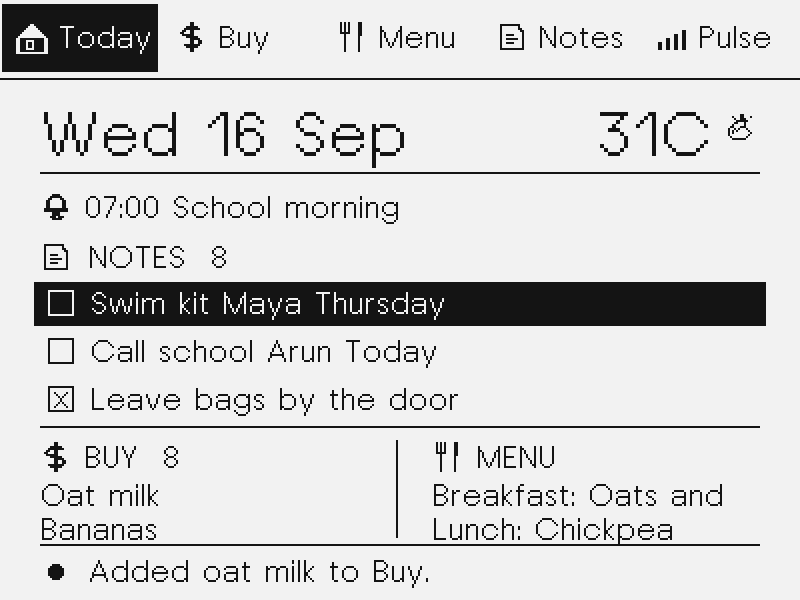
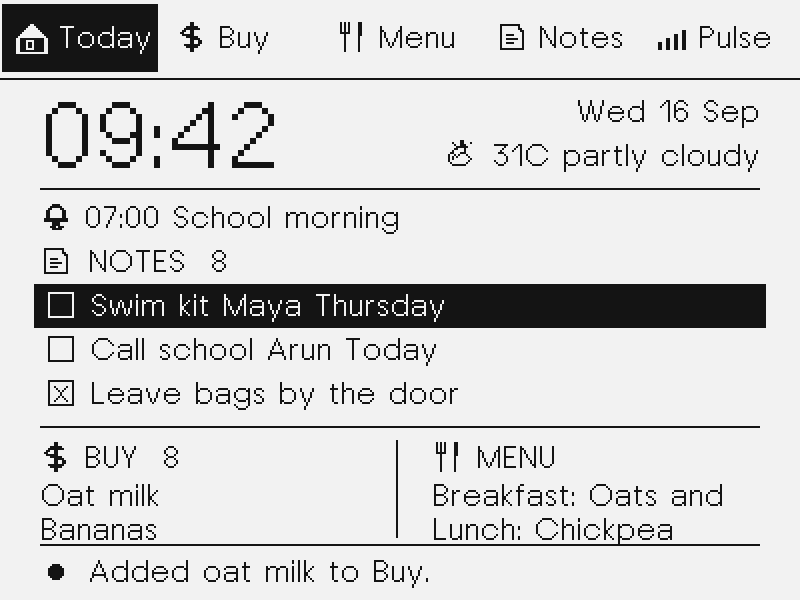
Add prominent RTC clock to Today screen

diff --git a/firmware/main/hearth_screens.cc b/firmware/main/hearth_screens.cc
@@ -118,18 +118,36 @@ void DrawWrapped(HearthCanvas& canvas, int x, int y, int width, const char* text
     }
 }
 
-void WeatherTemp(const HearthState& state, char* temp, size_t cap) {
-    temp[0] = '\0';
-    const char* w = state.weather[0] ? state.weather : "";
-    if (w[0] < '0' || w[0] > '9') {
+void ClockTime(const HearthState& state, char* value, size_t cap) {
+    int hour = -1;
+    int minute = -1;
+    const char* time = std::strchr(state.clock, 'T');
+    time = time ? time + 1 : state.clock;
+    if (std::sscanf(time, "%d:%d", &hour, &minute) == 2 &&
+        hour >= 0 && hour <= 23 && minute >= 0 && minute <= 59) {
+        std::snprintf(value, cap, "%02d:%02d", hour, minute);
         return;
     }
-    int n = 0;
-    while (w[n] && w[n] != ' ' && n + 1 < static_cast<int>(cap)) {
-        temp[n] = w[n];
-        n++;
+    std::snprintf(value, cap, "--:--");
+}
+
+void WeatherSummary(const HearthState& state, char* summary, size_t cap) {
+    summary[0] = '\0';
+    if (cap == 0 || state.weather[0] == '\0') return;
+
+    const char* separator = std::strstr(state.weather, "  ");
+    if (separator == nullptr) {
+        const int limit = static_cast<int>(cap - 1);
+        std::snprintf(summary, cap, "%.*s", limit, state.weather);
+        return;
     }
-    temp[n] = '\0';
+    const char* condition = separator + 2;
+    const char* end = std::strstr(condition, "  ");
+    const int temperature_len = static_cast<int>(separator - state.weather);
+    const int condition_len = end ? static_cast<int>(end - condition)
+                                  : static_cast<int>(std::strlen(condition));
+    std::snprintf(summary, cap, "%.*s %.*s", temperature_len, state.weather,
+                  condition_len, condition);
 }
 
 void DrawStatus(HearthCanvas& canvas, const HearthState& state) {
@@ -164,36 +182,37 @@ void DrawStatus(HearthCanvas& canvas, const HearthState& state) {
 
 void DrawToday(HearthCanvas& canvas, const HearthState& state) {
     const char* date = state.date[0] ? state.date : "Today";
-    canvas.Text(kLeft, 52, date, 2);
+    char clock[6];
+    ClockTime(state, clock, sizeof(clock));
+    canvas.Text(kLeft, 45, clock, 3);
 
-    char temp[12];
-    WeatherTemp(state, temp, sizeof(temp));
-    const uint16_t* wx = HearthWeatherIcon(state.wx);
-    const int icon_x = kRight - 16;
-    canvas.Icon16(icon_x, 57, wx);
-    if (temp[0] != '\0') {
-        const int tw = canvas.TextWidth(temp, 2);
-        canvas.Text(icon_x - 8 - tw, 52, temp, 2);
-    }
+    const int date_width = canvas.TextWidth(date, 1);
+    canvas.Text(kRight - date_width, 48, date, 1);
+    char weather[24];
+    WeatherSummary(state, weather, sizeof(weather));
+    const int weather_width = canvas.TextWidth(weather, 1);
+    const int icon_x = kRight - weather_width - 22;
+    canvas.Icon16(icon_x, 70, HearthWeatherIcon(state.wx));
+    canvas.Text(icon_x + 22, 70, weather, 1);
 
-    canvas.HLine(kLeft, 86, kBodyWidth);
+    canvas.HLine(kLeft, 94, kBodyWidth);
 
     if (state.alarm[0] != '\0') {
-        canvas.Icon16(kLeft, 96, kIconBell);
-        canvas.Text(kLeft + 22, 96, state.alarm, 1);
+        canvas.Icon16(kLeft, 101, kIconBell);
+        canvas.Text(kLeft + 22, 101, state.alarm, 1);
     }
 
-    const int heading_y = state.alarm[0] ? 121 : 98;
+    const int heading_y = state.alarm[0] ? 123 : 101;
     canvas.Icon16(kLeft, heading_y, kIconNotes);
     char heading[32];
     std::snprintf(heading, sizeof(heading), "NOTES  %s", state.n_notes);
     canvas.Text(kLeft + 24, heading_y, heading, 1);
-    const int first_y = heading_y + 23;
+    const int first_y = heading_y + 22;
     int shown = 0;
     const int visible_cap = state.alarm[0] ? 3 : 4;
     const int start = state.selected[0] >= visible_cap ? state.selected[0] - visible_cap + 1 : 0;
     for (int i = start; i < 12 && i < start + visible_cap && state.notes[i][0]; ++i) {
-        const int y = first_y + (i - start) * 24;
+        const int y = first_y + (i - start) * 22;
         const bool selected = state.selected[0] == i;
         if (selected) canvas.FillRect(kLeft - 3, y - 3, kBodyWidth + 6, 22, true);
         canvas.Rect(kLeft + 4, y + 1, 13, 13, !selected);

diff --git a/firmware/main/app_main.cc b/firmware/main/app_main.cc
@@ -35,6 +35,7 @@ constexpr TickType_t kIdleSnap = pdMS_TO_TICKS(20000);
 constexpr TickType_t kPosterRefresh = pdMS_TO_TICKS(10000);
 constexpr TickType_t kFilePoll = pdMS_TO_TICKS(2000);
 constexpr TickType_t kAckDuration = pdMS_TO_TICKS(15000);
+constexpr TickType_t kClockPoll = pdMS_TO_TICKS(1000);
 constexpr int kMaxLocalRequests = 4;
 
 enum class NetKind : uint8_t { kUpload, kPoster, kApply };
@@ -68,6 +69,7 @@ TickType_t g_last_input = 0;
 TickType_t g_last_fetch = 0;
 TickType_t g_ack_shown = 0;
 TickType_t g_last_alarm_check = 0;
+TickType_t g_last_clock_check = 0;
 char g_rung_alarm[48] = {};
 char g_synced_alarm[48] = {};
 QueueHandle_t g_net_jobs = nullptr;
@@ -81,6 +83,7 @@ int g_local_clip_count = 0;
 char g_alarm_clear_body[160] = {};
 
 esp_err_t Paint(bool full);
+esp_err_t PaintClock();
 bool QueuePoster();
 bool QueueApply(const char* body);
 
@@ -117,6 +120,32 @@ void SyncRtcClock(const char* json) {
             ESP_LOGW(kTag, "RTC sync failed");
         }
     }
+}
+
+bool RefreshRtcClock() {
+    RtcPcf8563* rtc = g_board.rtc();
+    tm now = {};
+    if (rtc == nullptr || !rtc->GetTime(now)) return false;
+
+    int old_year = -1;
+    int old_month = -1;
+    int old_day = -1;
+    int old_hour = -1;
+    int old_minute = -1;
+    const bool had_clock =
+        std::sscanf(g_state.clock, "%d-%d-%dT%d:%d", &old_year, &old_month,
+                    &old_day, &old_hour, &old_minute) == 5;
+    const bool minute_changed = !had_clock || old_year != now.tm_year + 1900 ||
+        old_month != now.tm_mon + 1 || old_day != now.tm_mday ||
+        old_hour != now.tm_hour || old_minute != now.tm_min;
+
+    std::strftime(g_state.clock, sizeof(g_state.clock),
+                  "%Y-%m-%dT%H:%M:%S", &now);
+    char date[sizeof(g_state.date)] = {};
+    std::strftime(date, sizeof(date), "%a %d %b", &now);
+    const bool date_changed = std::strcmp(date, g_state.date) != 0;
+    if (date[0]) HearthCopy(g_state.date, sizeof(g_state.date), date);
+    return minute_changed || date_changed;
 }
 
 void SyncRtcAlarm() {
@@ -284,6 +313,20 @@ esp_err_t Paint(bool full) {
                                HearthCanvas::kHeight};
     return zectrix_epd_refresh_partial_1bpp(g_epd, &rect, g_canvas.data(),
                                             g_canvas.size());
+}
+
+esp_err_t PaintClock() {
+    HearthDraw(g_canvas, g_state);
+    if (!zectrix_epd_is_powered(g_epd)) return Paint(true);
+
+    constexpr int kTop = 40;
+    constexpr int kHeight = 56;
+    zectrix_epd_rect_t rect = {0, kTop, HearthCanvas::kWidth, kHeight};
+    const uint8_t* pixels = g_canvas.data() +
+        static_cast<size_t>(kTop) * HearthCanvas::kStride;
+    return zectrix_epd_refresh_partial_1bpp(
+        g_epd, &rect, pixels,
+        static_cast<size_t>(HearthCanvas::kStride) * kHeight);
 }
 
 void ShowVoice(HearthVoice voice, const char* status, bool full) {
@@ -620,6 +663,7 @@ extern "C" void app_main(void) {
 
     RefreshPower();
     RefreshRadio();
+    (void)RefreshRtcClock();
     std::snprintf(g_state.note, sizeof(g_state.note), "HEARTH %s",
                   kFirmwareVersion);
     std::snprintf(g_state.wifi_status, sizeof(g_state.wifi_status),
@@ -660,6 +704,16 @@ extern "C" void app_main(void) {
         if (now - g_last_alarm_check >= pdMS_TO_TICKS(500)) {
             g_last_alarm_check = now;
             CheckAlarm();
+        }
+        if (now - g_last_clock_check >= kClockPoll) {
+            g_last_clock_check = now;
+            if (RefreshRtcClock() && g_state.screen == HearthScreen::kToday) {
+                const esp_err_t clock_paint = PaintClock();
+                if (clock_paint != ESP_OK) {
+                    ESP_LOGW(kTag, "clock paint failed: %s",
+                             esp_err_to_name(clock_paint));
+                }
+            }
         }
         if (g_alarm_clear_body[0] && QueueApply(g_alarm_clear_body))
             g_alarm_clear_body[0] = '\0';

diff --git a/tests/test_hearth_model.cc b/tests/test_hearth_model.cc
@@ -35,7 +35,8 @@ int main() {
     assert(std::strcmp(out, "a\"b") == 0);
 
     const char* poster =
-        "{\"date\":\"Mon 14 Sep\",\"weather\":\"29C  fair\",\"wx\":\"sun\","
+        "{\"date\":\"Mon 14 Sep\",\"clock\":\"2026-09-14T09:42:00\","
+        "\"weather\":\"29C  fair\",\"wx\":\"sun\","
         "\"meal\":\"dal rice\",\"ack\":\"Added oat milk to Buy.\","
         "\"pending\":\"1\",\"queue\":\"2\",\"heard\":\"set lunch to dal\","
         "\"n_buy\":\"1\",\"n_notes\":\"1\","
@@ -46,6 +47,7 @@ int main() {
         "\"ahh\":\"7\",\"amm\":\"0\"}";
     HearthApplyPoster(&s, poster);
     assert(std::strcmp(s.date, "Mon 14 Sep") == 0);
+    assert(std::strcmp(s.clock, "2026-09-14T09:42:00") == 0);
     assert(std::strcmp(s.buy[0], "oat milk") == 0);
     assert(s.buy[1][0] == '\0');
     assert(std::strcmp(s.n_buy, "1") == 0);

diff --git a/sim/sim_main.cc b/sim/sim_main.cc
@@ -138,6 +138,7 @@ HearthState MakeToday() {
                   "add oat milk to the shopping list");
     std::snprintf(s.note, sizeof(s.note), "HEARTH v0.9.1-hearth");
     std::snprintf(s.date, sizeof(s.date), "Wed 16 Sep");
+    std::snprintf(s.clock, sizeof(s.clock), "2026-09-16T09:42:00");
     std::snprintf(s.weather, sizeof(s.weather), "31C  partly cloudy  21-31");
     std::snprintf(s.wx, sizeof(s.wx), "partly");
     std::snprintf(s.meal, sizeof(s.meal), "Noodle soup");

diff --git a/docs/PLAN.md b/docs/PLAN.md
@@ -50,7 +50,7 @@ The fridge is one mouth. Chat is another. Both write the same board.
 
 | Screen | Job | Layout |
 |---|---|---|
-| **Today** | Kitchen glance | Date and weather, then the selected notes list; two Buy and two upcoming Menu items share a split footer. |
+| **Today** | Kitchen glance and clock | Prominent RTC time with date and weather, then the selected notes list; two Buy and two upcoming Menu items share a split footer. |
 | **Buy** | Shopping | Selectable list with checkboxes. Named owners as a suffix. |
 | **Menu** | Week of meals | Full weekday headings with Breakfast, Lunch, Dinner entries in order. |
 | **Notes** | Household working memory | Selectable chores, bags, thoughts; checkboxes. |
@@ -79,7 +79,7 @@ E-ink is the feature. Design it like a kitchen print, not an app.
 - **Pure black and white** for the final poster system. This keeps the bitmap
   type sharp and lets listening/filing feedback use partial refresh. The
   calibrated 16-gray panel path remains in the driver for future artwork.
-- Type scale: huge date, one hero line, then a short list. Wide margins. Hairline rules. No icon chrome.
+- Type scale: huge time, compact date/weather, then a short list. Wide margins. Hairline rules. No icon chrome.
 - Partial refresh for ticking an item. Full refresh when the screen changes.
 - After a voice turn: one quiet confirmation line at the bottom
   (`Removed oat milk`), then settle back to the poster. Sound is reserved for

diff --git a/README.md b/README.md
@@ -11,8 +11,8 @@ the device.
 Screens from the current demo board, rendered by the host simulator using the
 firmware's canvas and screen code.
 
-- **Today:** prominent notes, the next two Buy items and upcoming meals, local
-  weather, and the next alarm.
+- **Today:** a prominent RTC-backed clock, local date and weather, important
+  notes, the next alarm, and compact Buy/Menu previews.
 - **Buy and Notes:** shopping, chores, packing, and reminders with owners,
   check marks, and voice or button deletion.
 - **Menu:** breakfast, lunch, and dinner under each weekday.

diff --git a/docs/BOARD.md b/docs/BOARD.md
@@ -9,7 +9,7 @@ text stays crisp and status changes can use fast partial refreshes.
 
 | Screen | Job |
 |---|---|
-| Today | Date, weather, alarm, prominent selectable notes, split footer with two Buy and two upcoming Menu items |
+| Today | RTC time, date, weather, alarm, prominent selectable notes, split footer with two Buy and two upcoming Menu items |
 | Buy | Shopping rows with checked and unchecked status |
 | Menu | Full weekday headings with Breakfast, Lunch, and Dinner meals below each day |
 | Notes | Chores, bags, thoughts with checked and unchecked status |
